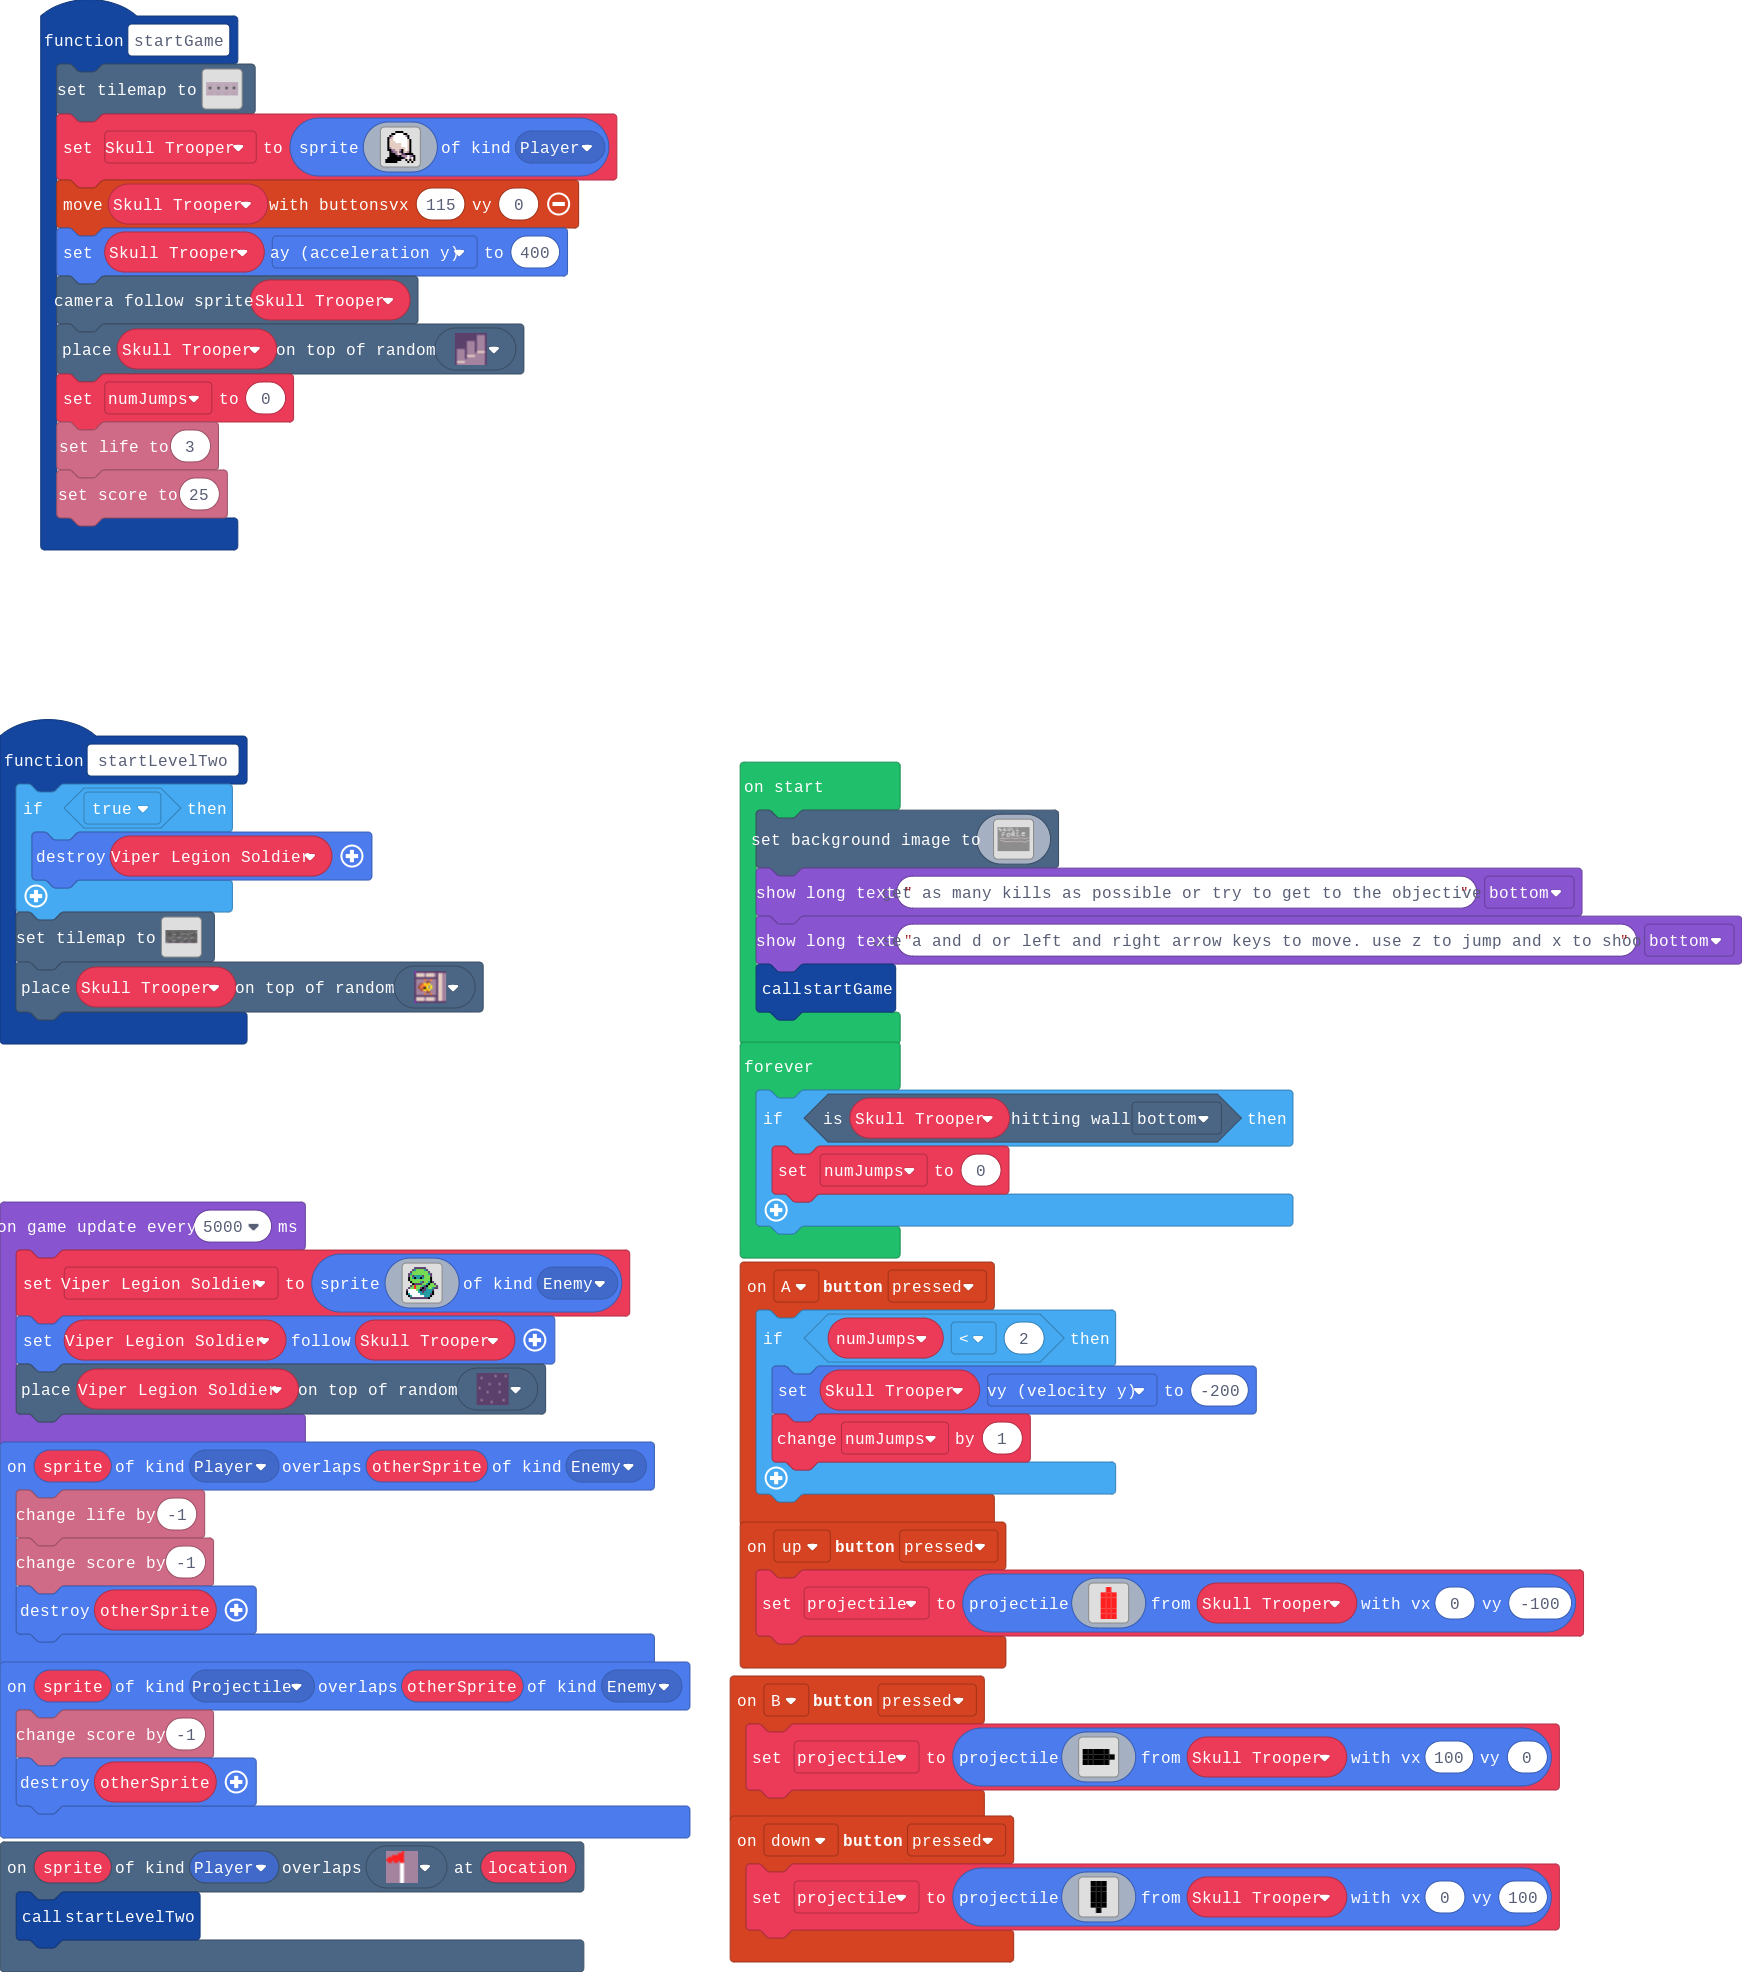
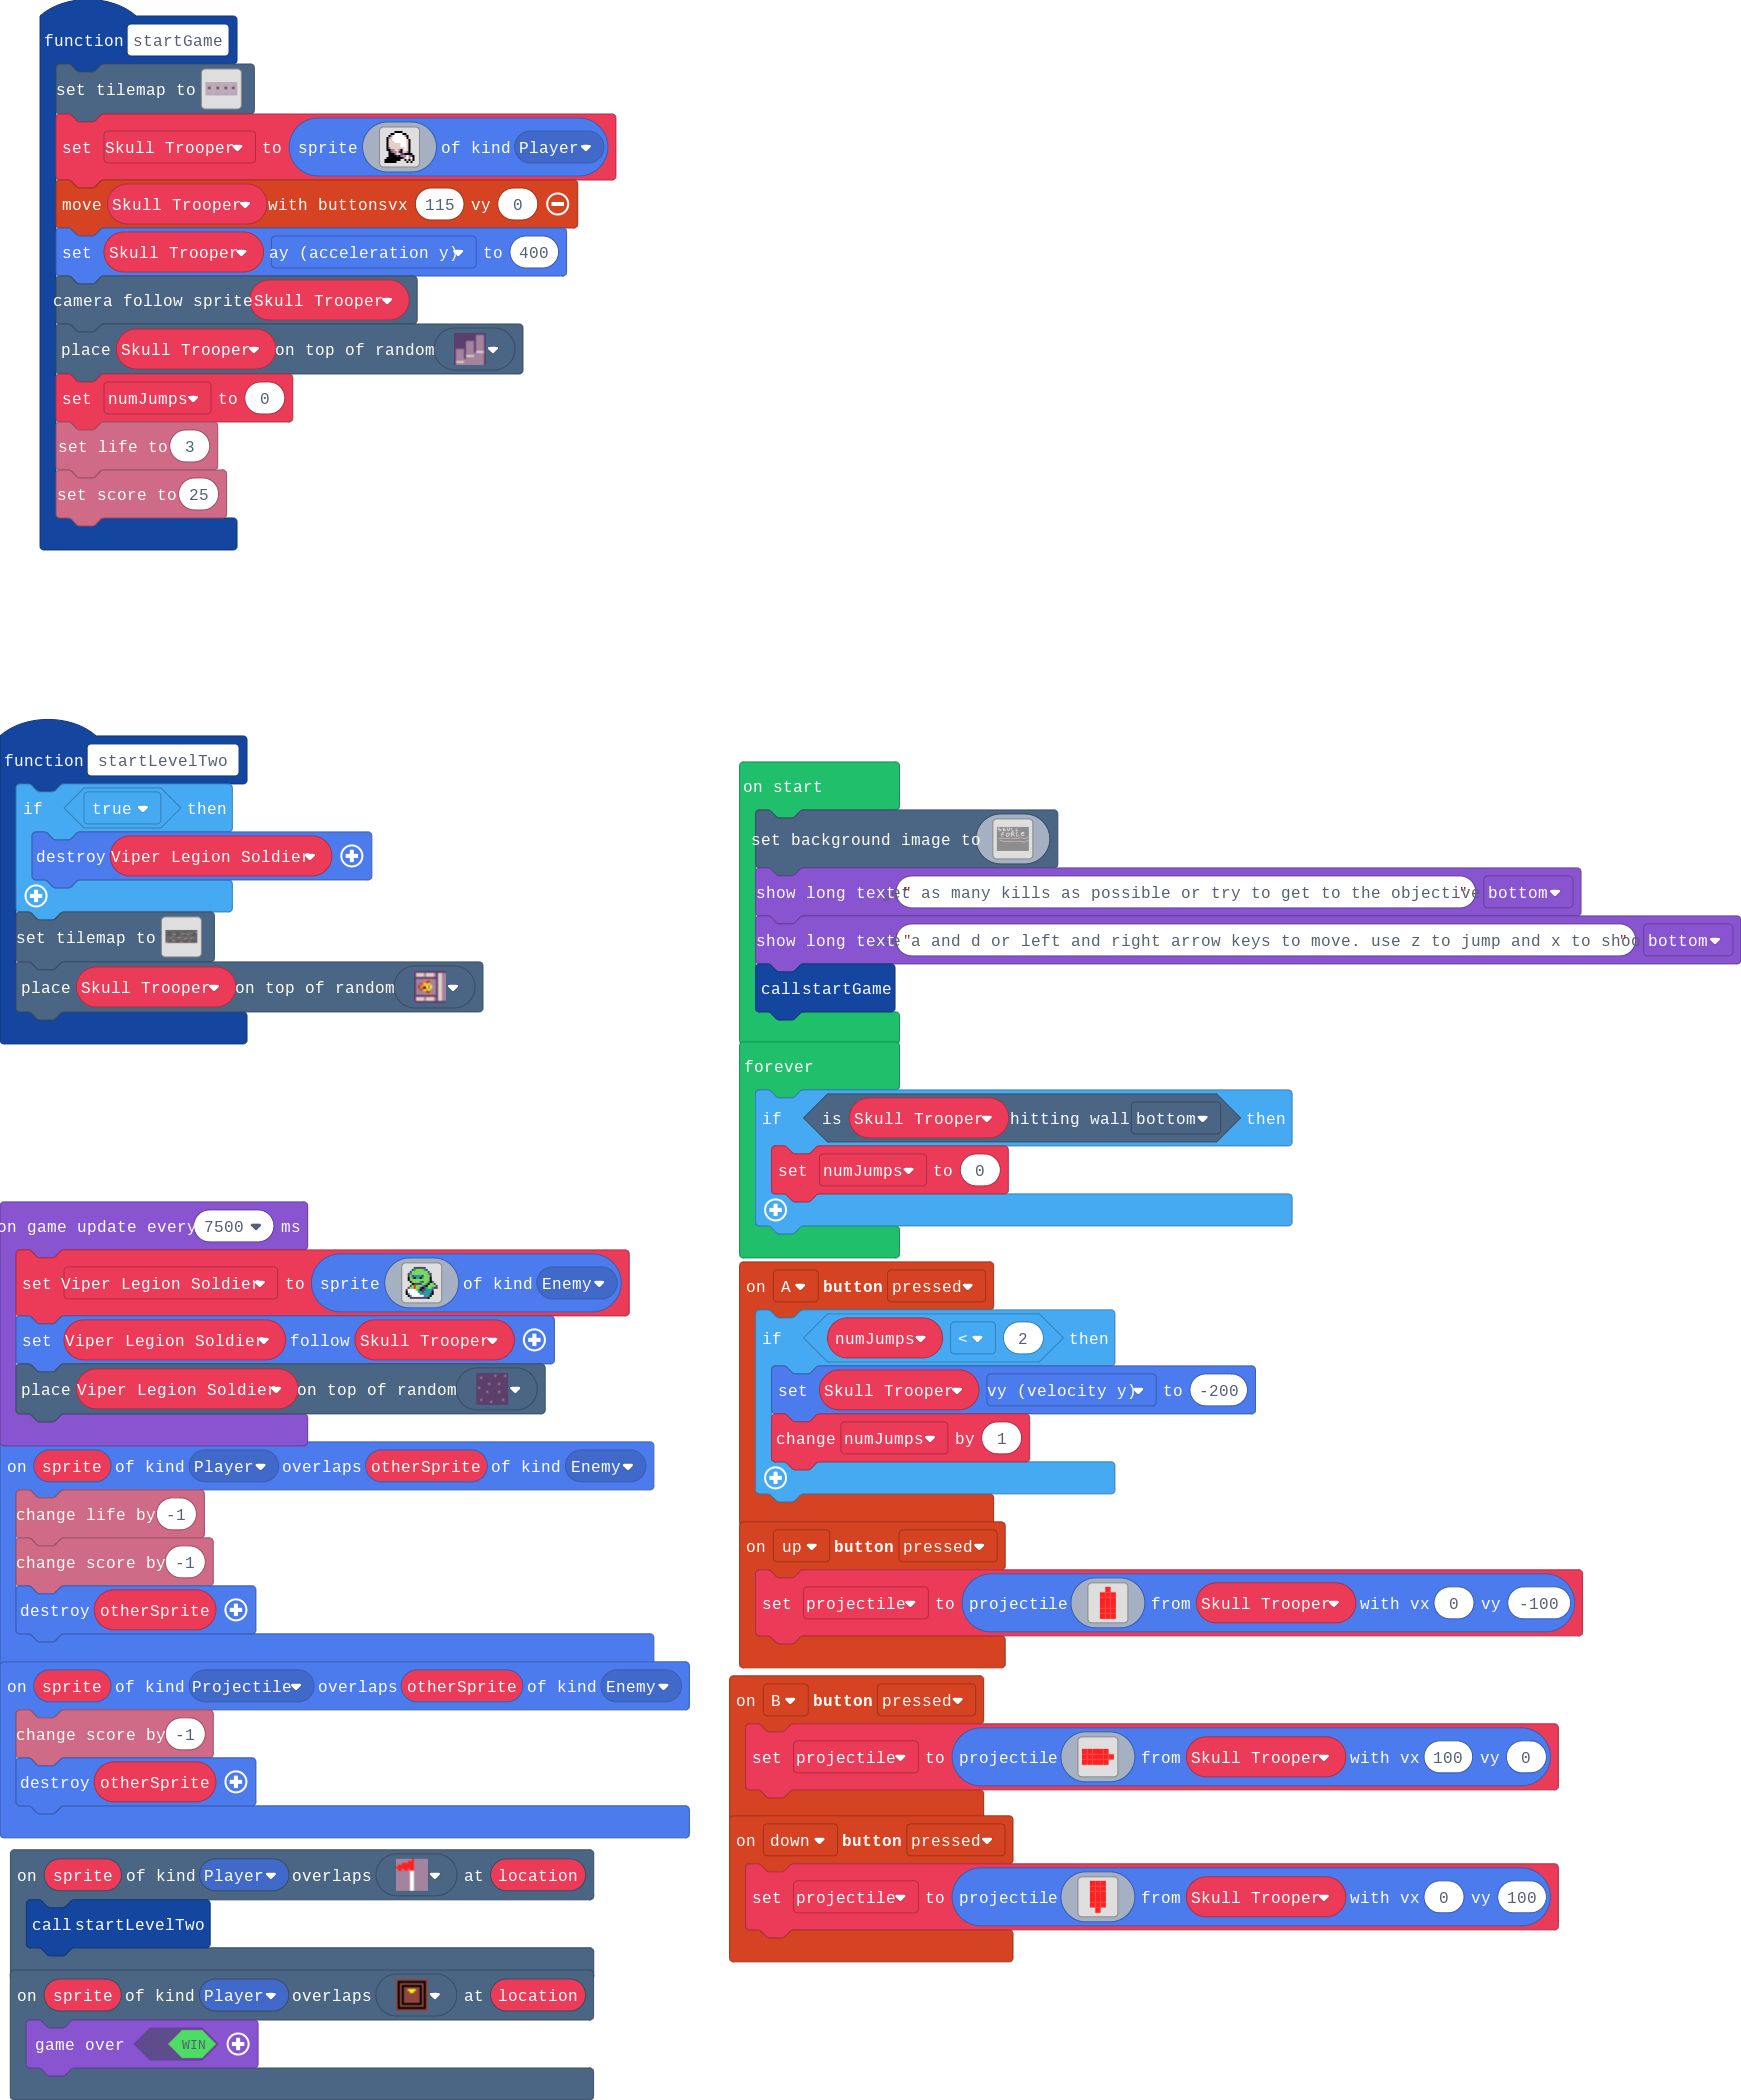
Update main.blocks, main.ts

diff --git a/main.ts b/main.ts
@@ -174,52 +174,14 @@ b b b b b b b 1 1 b b b b b b b
 scene.onOverlapTile(SpriteKind.Player, myTiles.tile9, function (sprite, location) {
     startLevelTwo()
 })
-function startLevelTwo () {
-    if (true) {
-        Viper_Legion_Soldier.destroy()
-    }
-    tiles.setTilemap(tiles.createTilemap(
[1 lines of base64/hex data omitted]
-            img`
-. . . . . . . . . . . . . . . . . . . . . . . . . . . . . . . . . . . . . . . . . . . . . . . . . . . . . . . . 2 . . . 
-. . . . . . . . . . . . . . . . . . . . . . . . . . . . . . . . . . . . . . . . . . . . . . . . . . . . . . . . 2 . . . 
-. . . . . . . . . . . . . . . . . . . . . . . . . . . . . . . . . . . . . . . . . . . . . . . . . . . . . . . . . . . . 
-. . . . . . . . . . . . . . . . . . . . . . . . . . . . . . . . . . . . . . . . . . . . . . . . . . . . . . . . . . . . 
-. . . . . . . . . . . . . . . . . . . . . . . . . . . . . . . . . . . . . . . . . . . . . . . . . . . . . . . . 2 2 2 2 
-. . . . . . . . . . . . . . . . . . . . . . . . . . . . . . . . . . . . . . . . . . . . . . . . . . . 2 2 . . . . . . . 
-. . . . . . . . . . . . . . . . . . . . . . . . . . . . . . . . . . . . . . . . . . . . . . . . 2 2 2 . . . . . . . . . 
-. . . . . . . . . . . . . . . . . . . . . . . . . . . . . . . 2 2 2 2 2 2 2 2 2 2 . . . . . . . . . . . . . . . . . . . 
-. . . . . . . . . . . . . . . 2 2 2 2 2 2 . . . . . . . . . . . . . . . . . . . . 2 2 . . . . . . . . . . . . . . . . . 
-. . . . . . . . . . . . . . . . . . . . . . . . . . . . . . . . . . . . . . . . . . 2 . . . . . . . . . . . . . . . . . 
-. . . . . . . . . . . . . . . . . . . . . . . . . . . . . . . . . . . . . . . . . . . . . . . . . . . . . . . . . . . . 
-. . . . . . . . . . . . . . . . . . . . . . . . . . . . . . . . . . . . . . . . . . . . . . . . . . . . . . . . . . . . 
-. . . . . . . . . . . . . 2 . . . . . . . . . . . . . . . . . . . . . . . . . . . . . . . . . . . . . . . . . . . . . . 
-. . . . . . . . . . . . 2 . . . . . . . . . . . . 2 2 2 2 . . . . . . . . . . . . . . . . . . . . . . 2 . . . . . . . . 
-. . . . . . . . . . . . . . . . . . . . . . . . 2 2 . . . . . . . . . . . . . . . . . . . . . . . 2 2 . . . . . . . . . 
-. . . . . . . . . . 2 . . . . . . . . . . . . . . . . . . . . . . . . . . . 2 2 . . . . . . . . 2 . . . . . . . . . . . 
-. . . . . . . . . 2 . . . . . . . . . . . . . . . . . . . . . . . . . . . 2 2 . . . . . . . . 2 . . . . . . . . . . . . 
-. . . . . . . . . . . . . . . . . . . . . . . . . . . . . . . . . . . . 2 . . . . . . . . . . . . . . . . . . . . . . . 
-. . . . . . . . . . . . . . . . . . . . . . . . . . . . . . . . . . . 2 . . . . . . . . . . . . . . . . . . . . . . . . 
-. . . . . . . . . . . . 2 2 2 2 2 2 2 2 . . . . . . . . . . . . . . 2 . . . . . . . . . . . . . . . . . . . . . . . . . 
-. . . . . 2 . . . . . . . . . . . . . . . . . . . . . . . . . . . . . . . . . . . . . . . . . . . . . . . . . . . . . . 
-. . . . 2 . . . . . . . . . . . . . . . . . . . . . . . . . . . . . . . . . . . . . . . . . . . . . . . . . . . . . . . 
-. . . 2 . . . . . . . . . . . . . . . . . . . . . . . . . . . . . . . . . . . . . . . . . . . . . . . . . . . . . . . . 
-. . 2 . . . . . . . . . . . . . . . . . . . . . . . . . . . . . . . . . . . . . . . . . . . . . . . . . . . . . . . . . 
-2 2 2 2 2 2 2 2 2 2 2 2 2 2 2 2 2 2 2 2 2 2 2 2 2 2 2 2 2 2 2 2 2 2 2 2 2 2 2 2 2 2 2 2 2 2 2 2 2 2 2 2 2 2 2 2 2 2 2 2 
-`,
-            [myTiles.tile0,sprites.castle.tilePath1,sprites.castle.tilePath5,sprites.castle.tilePath2,sprites.castle.tilePath7,sprites.castle.tilePath3,sprites.castle.tilePath4,sprites.castle.tilePath6,sprites.builtin.forestTiles0,sprites.castle.tileGrass1,sprites.castle.tileGrass2,sprites.castle.tileDarkGrass2,sprites.castle.tileDarkGrass3,sprites.castle.tileDarkGrass1,sprites.builtin.forestTiles5,sprites.builtin.forestTiles2,sprites.builtin.forestTiles28,sprites.builtin.forestTiles20,sprites.castle.tileGrass3,myTiles.tile2,sprites.dungeon.stairLarge,myTiles.tile3,sprites.dungeon.floorDark2,sprites.dungeon.floorDark0,myTiles.tile5,myTiles.tile6,myTiles.tile7,sprites.dungeon.darkGroundCenter,myTiles.tile8,myTiles.tile9,myTiles.tile10,sprites.dungeon.doorLockedEast],
-            TileScale.Sixteen
-        ))
-    tiles.placeOnRandomTile(Skull_Trooper, sprites.dungeon.doorLockedEast)
-}
 controller.down.onEvent(ControllerButtonEvent.Pressed, function () {
     projectile = sprites.createProjectileFromSprite(img`
-f f f 
-f f f 
-f f f 
-f f f 
-f f f 
-. f . 
+2 2 2 
+2 2 2 
+2 2 2 
+2 2 2 
+2 2 2 
+. 2 . 
 `, Skull_Trooper, 0, 100)
 })
 function startGame () {
@@ -283,10 +245,13 @@ f f f f f f . . . . . f . f .
 }
 controller.B.onEvent(ControllerButtonEvent.Pressed, function () {
     projectile = sprites.createProjectileFromSprite(img`
-f f f f f . 
-f f f f f f 
-f f f f f . 
+2 2 2 2 2 . 
+2 2 2 2 2 2 
+2 2 2 2 2 . 
 `, Skull_Trooper, 100, 0)
+})
+scene.onOverlapTile(SpriteKind.Player, myTiles.tile3, function (sprite, location) {
+    game.over(true)
 })
 sprites.onOverlap(SpriteKind.Projectile, SpriteKind.Enemy, function (sprite, otherSprite) {
     info.changeScoreBy(-1)
@@ -313,10 +278,48 @@ controller.up.onEvent(ControllerButtonEvent.Pressed, function () {
 2 2 2 
 `, Skull_Trooper, 0, -100)
 })
-let numJumps = 0
-let projectile: Sprite = null
-let Skull_Trooper: Sprite = null
+function startLevelTwo () {
+    if (true) {
+        Viper_Legion_Soldier.destroy()
+    }
+    tiles.setTilemap(tiles.createTilemap(
[1 lines of base64/hex data omitted]
+            img`
+. . . . . . . . . . . . . . . . . . . . . . . . . . . . . . . . . . . . . . . . . . . . . . . . . . . . . . . . 2 . . . 
+. . . . . . . . . . . . . . . . . . . . . . . . . . . . . . . . . . . . . . . . . . . . . . . . . . . . . . . . 2 . . . 
+. . . . . . . . . . . . . . . . . . . . . . . . . . . . . . . . . . . . . . . . . . . . . . . . . . . . . . . . . . . . 
+. . . . . . . . . . . . . . . . . . . . . . . . . . . . . . . . . . . . . . . . . . . . . . . . . . . . . . . . . . . . 
+. . . . . . . . . . . . . . . . . . . . . . . . . . . . . . . . . . . . . . . . . . . . . . . . . . . . . . . . 2 2 2 2 
+. . . . . . . . . . . . . . . . . . . . . . . . . . . . . . . . . . . . . . . . . . . . . . . . . . . 2 2 . . . . . . . 
+. . . . . . . . . . . . . . . . . . . . . . . . . . . . . . . . . . . . . . . . . . . . . . . . 2 2 2 . . . . . . . . . 
+. . . . . . . . . . . . . . . . . . . . . . . . . . . . . . . 2 2 2 2 2 2 2 2 2 2 . . . . . . . . . . . . . . . . . . . 
+. . . . . . . . . . . . . . . 2 2 2 2 2 2 . . . . . . . . . . . . . . . . . . . . 2 2 . . . . . . . . . . . . . . . . . 
+. . . . . . . . . . . . . . . . . . . . . . . . . . . . . . . . . . . . . . . . . . 2 . . . . . . . . . . . . . . . . . 
+. . . . . . . . . . . . . . . . . . . . . . . . . . . . . . . . . . . . . . . . . . . . . . . . . . . . . . . . . . . . 
+. . . . . . . . . . . . . . . . . . . . . . . . . . . . . . . . . . . . . . . . . . . . . . . . . . . . . . . . . . . . 
+. . . . . . . . . . . . . 2 . . . . . . . . . . . . . . . . . . . . . . . . . . . . . . . . . . . . . . . . . . . . . . 
+. . . . . . . . . . . . 2 . . . . . . . . . . . . 2 2 2 2 . . . . . . . . . . . . . . . . . . . . . . 2 . . . . . . . . 
+. . . . . . . . . . . . . . . . . . . . . . . . 2 2 . . . . . . . . . . . . . . . . . . . . . . . 2 2 . . . . . . . . . 
+. . . . . . . . . . 2 . . . . . . . . . . . . . . . . . . . . . . . . . . . 2 2 . . . . . . . . 2 . . . . . . . . . . . 
+. . . . . . . . . 2 . . . . . . . . . . . . . . . . . . . . . . . . . . . 2 2 . . . . . . . . 2 . . . . . . . . . . . . 
+. . . . . . . . . . . . . . . . . . . . . . . . . . . . . . . . . . . . 2 . . . . . . . . . . . . . . . . . . . . . . . 
+. . . . . . . . . . . . . . . . . . . . . . . . . . . . . . . . . . . 2 . . . . . . . . . . . . . . . . . . . . . . . . 
+. . . . . . . . . . . . 2 2 2 2 2 2 2 2 . . . . . . . . . . . . . . 2 . . . . . . . . . . . . . . . . . . . . . . . . . 
+. . . . . 2 . . . . . . . . . . . . . . . . . . . . . . . . . . . . . . . . . . . . . . . . . . . . . . . . . . . . . . 
+. . . . 2 . . . . . . . . . . . . . . . . . . . . . . . . . . . . . . . . . . . . . . . . . . . . . . . . . . . . . . . 
+. . . 2 . . . . . . . . . . . . . . . . . . . . . . . . . . . . . . . . . . . . . . . . . . . . . . . . . . . . . . . . 
+. . 2 . . . . . . . . . . . . . . . . . . . . . . . . . . . . . . . . . . . . . . . . . . . . . . . . . . . . . . . . . 
+2 2 2 2 2 2 2 2 2 2 2 2 2 2 2 2 2 2 2 2 2 2 2 2 2 2 2 2 2 2 2 2 2 2 2 2 2 2 2 2 2 2 2 2 2 2 2 2 2 2 2 2 2 2 2 2 2 2 2 2 
+`,
+            [myTiles.tile0,sprites.castle.tilePath1,sprites.castle.tilePath5,sprites.castle.tilePath2,sprites.castle.tilePath7,sprites.castle.tilePath3,sprites.castle.tilePath4,sprites.castle.tilePath6,sprites.builtin.forestTiles0,sprites.castle.tileGrass1,sprites.castle.tileGrass2,sprites.castle.tileDarkGrass2,sprites.castle.tileDarkGrass3,sprites.castle.tileDarkGrass1,sprites.builtin.forestTiles5,sprites.builtin.forestTiles2,sprites.builtin.forestTiles28,sprites.builtin.forestTiles20,sprites.castle.tileGrass3,myTiles.tile2,sprites.dungeon.stairLarge,myTiles.tile3,sprites.dungeon.floorDark2,sprites.dungeon.floorDark0,myTiles.tile5,myTiles.tile6,myTiles.tile7,sprites.dungeon.darkGroundCenter,myTiles.tile8,myTiles.tile9,myTiles.tile10,sprites.dungeon.doorLockedEast],
+            TileScale.Sixteen
+        ))
+    tiles.placeOnRandomTile(Skull_Trooper, sprites.dungeon.doorLockedEast)
+}
 let Viper_Legion_Soldier: Sprite = null
+let numJumps = 0
+let Skull_Trooper: Sprite = null
+let projectile: Sprite = null
 scene.setBackgroundImage(img`
 f f f f f f f f f f f f f f f f f f f f f f f f f f f f f f f f f f f f f f f f f f f f f f f f f f f f f f f f f f f f f f f f f f f f f f f f f f f f f f f f f f f f f f f f f f f f f f f f f f f f f f f f f f f f f f f f f f f f f f f f f f f f f f f f f f f f f f f f f f f f f f f f f f f f f f f f f f f f f f f f 
 f f f f f f f f f f f f f f f f f f f f f f f f f f f f f f f f f f f f f f f f f f f f f f f f f f f f f f f f f f f f f f f f f f f f f f f f f f f f f f f f f f f f f f f f f f f f f f f f f f f f f f f f f f f f f f f f f f f f f f f f f f f f f f f f f f f f f f f f f f f f f f f f f f f f f f f f f f f f f f f f 
@@ -442,7 +445,7 @@ f f f f f f f f f f f f f f f f f f f f f f f f f f f f f f f f f f f f f f f f 
 game.showLongText("get as many kills as possible or try to get to the objective.", DialogLayout.Bottom)
 game.showLongText("use a and d or left and right arrow keys to move. use z to jump and x to shoot.", DialogLayout.Bottom)
 startGame()
-game.onUpdateInterval(5000, function () {
+game.onUpdateInterval(7500, function () {
     Viper_Legion_Soldier = sprites.create(img`
 . . . . c c c c c c . . . . . . 
 . . . c 6 7 7 7 7 6 c . . . . . 
